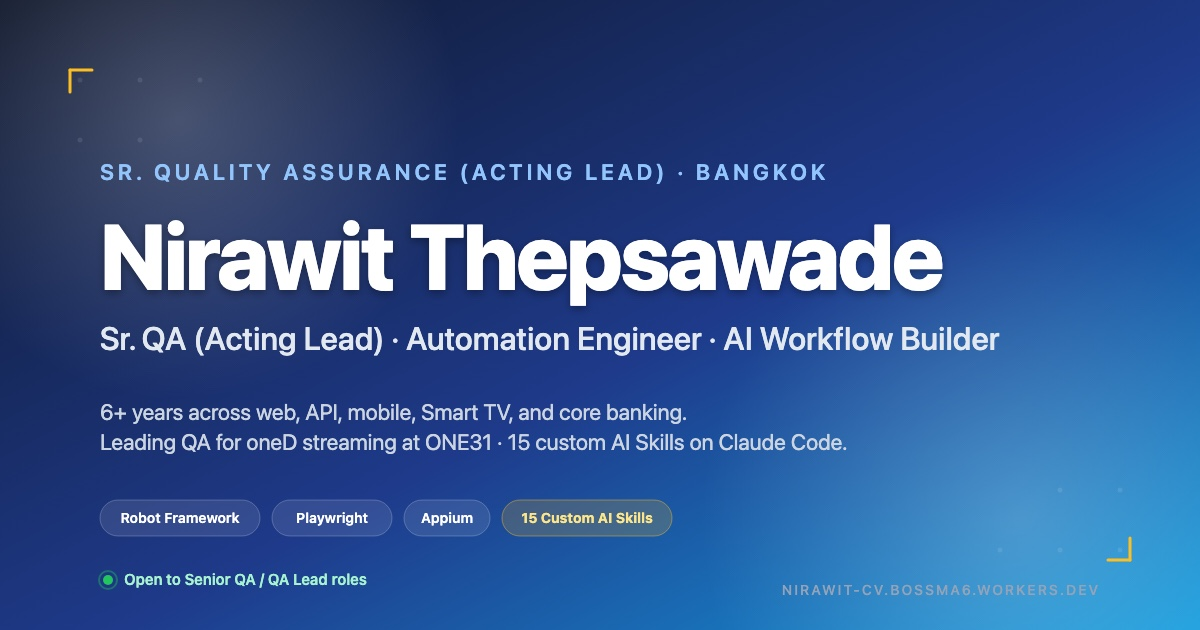
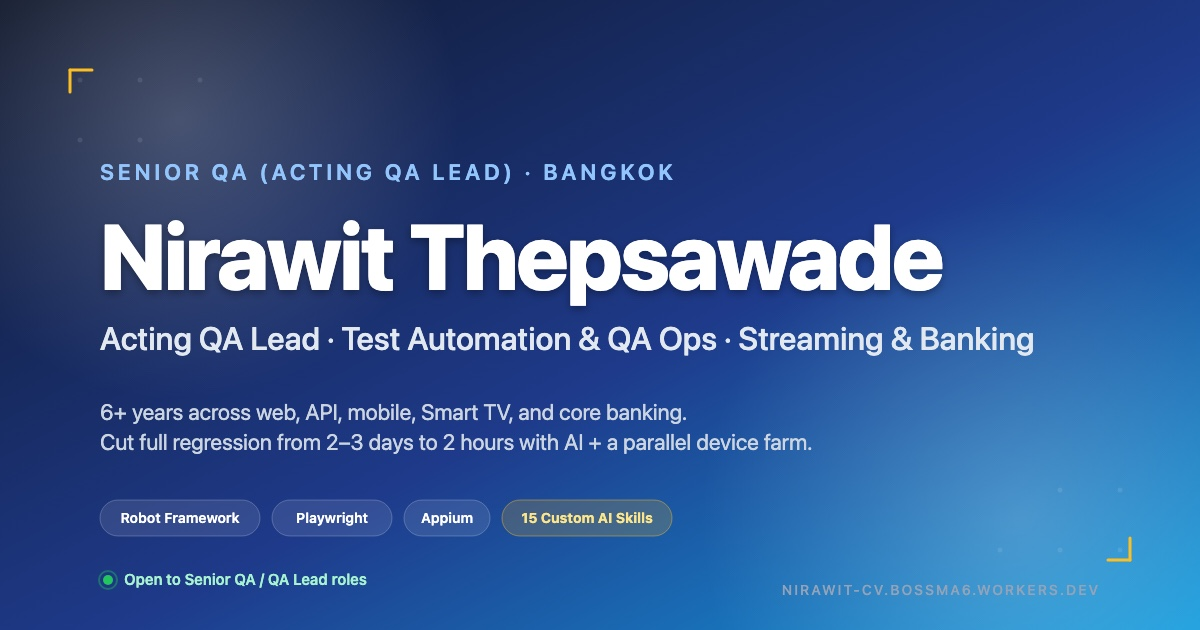
Refresh share card with new title and update AI Skills tile to 15

Changed region(s): [[0.0617, 0.5127, 0.8633, 0.573], [0.0925, 0.2413, 0.6783, 0.3016], [0.0925, 0.6635, 0.7092, 0.7238]]

diff --git a/index.html b/index.html
@@ -1331,10 +1331,10 @@
           <div class="row gy-4 isotope-container" data-aos="fade-up" data-aos-delay="200">
 
             <div class="col-lg-4 col-md-6 portfolio-item isotope-item filter-ai">
-              <img src="assets/img/masonry-portfolio/masonry-portfolio-1.svg" class="img-fluid" alt="13 Custom AI Skills">
+              <img src="assets/img/masonry-portfolio/masonry-portfolio-1.svg" class="img-fluid" alt="15 Custom AI Skills">
               <div class="portfolio-info">
-                <h4>13 Custom AI Skills</h4>
-                <p>Built on Claude Code · QA team workflow (see Writing for the series)</p>
+                <h4>15 Custom AI Skills</h4>
+                <p>Built on Claude Code · QA team workflow (started at 13, see Writing for the series)</p>
               </div>
             </div><!-- End Portfolio Item -->
 
